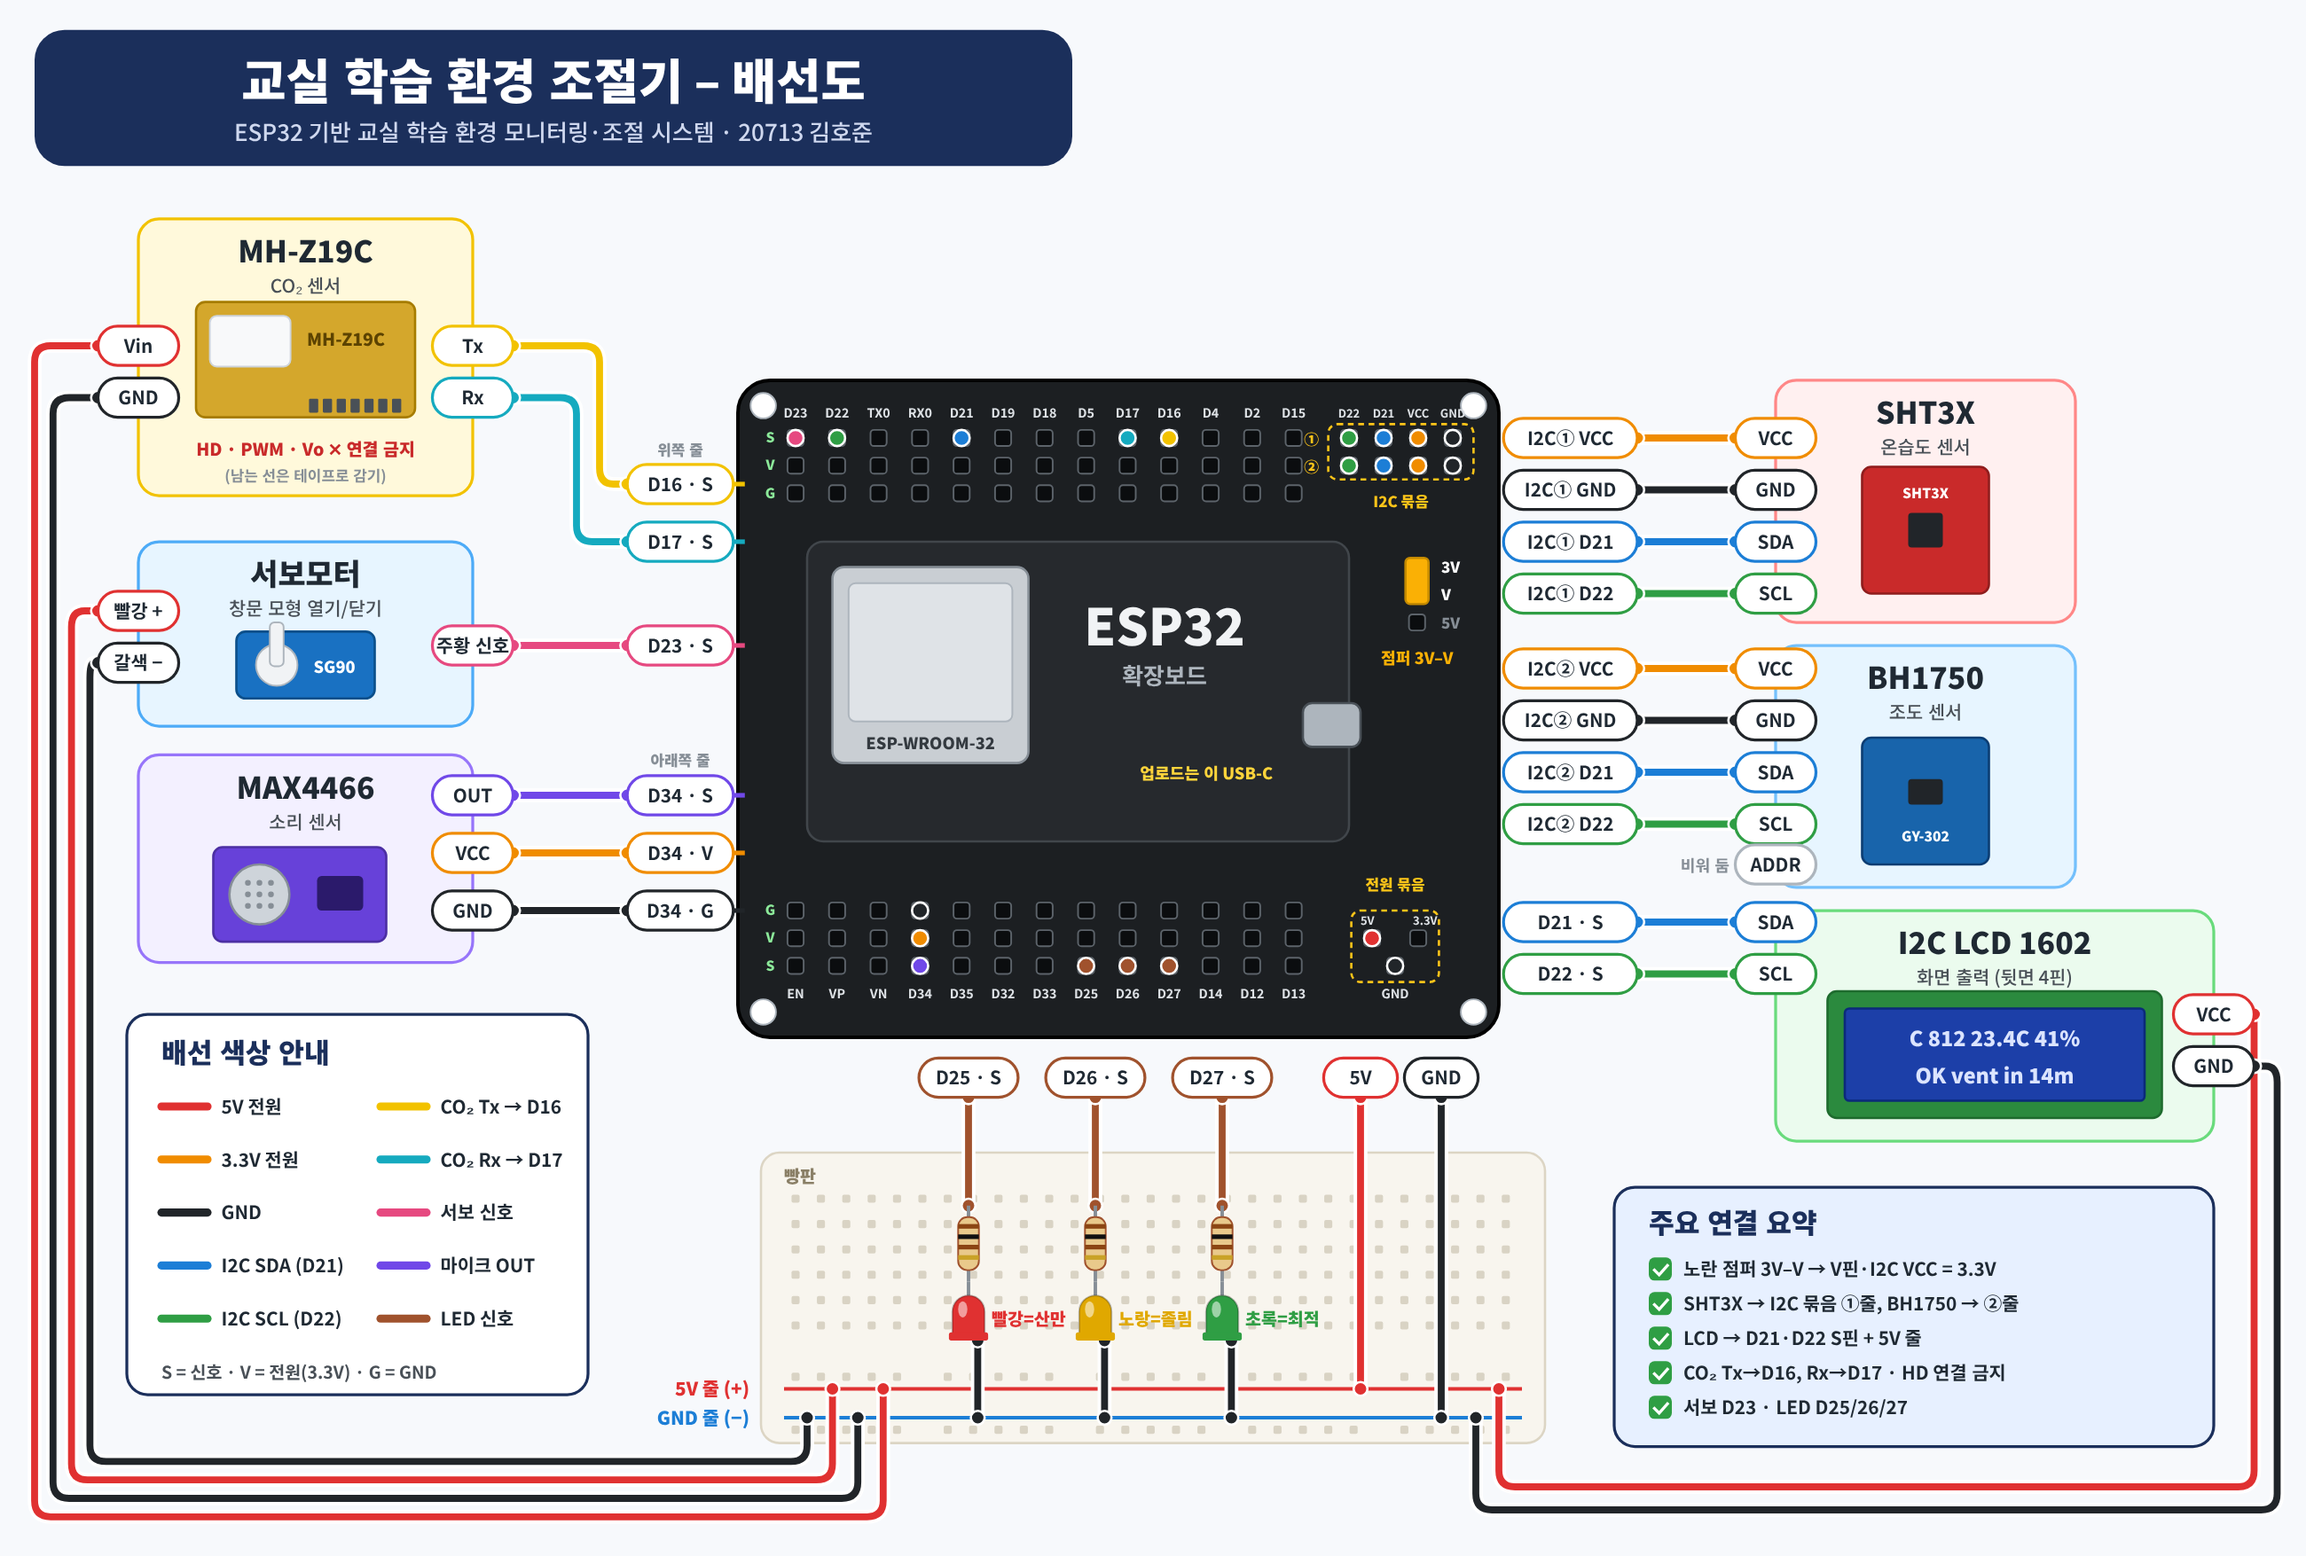
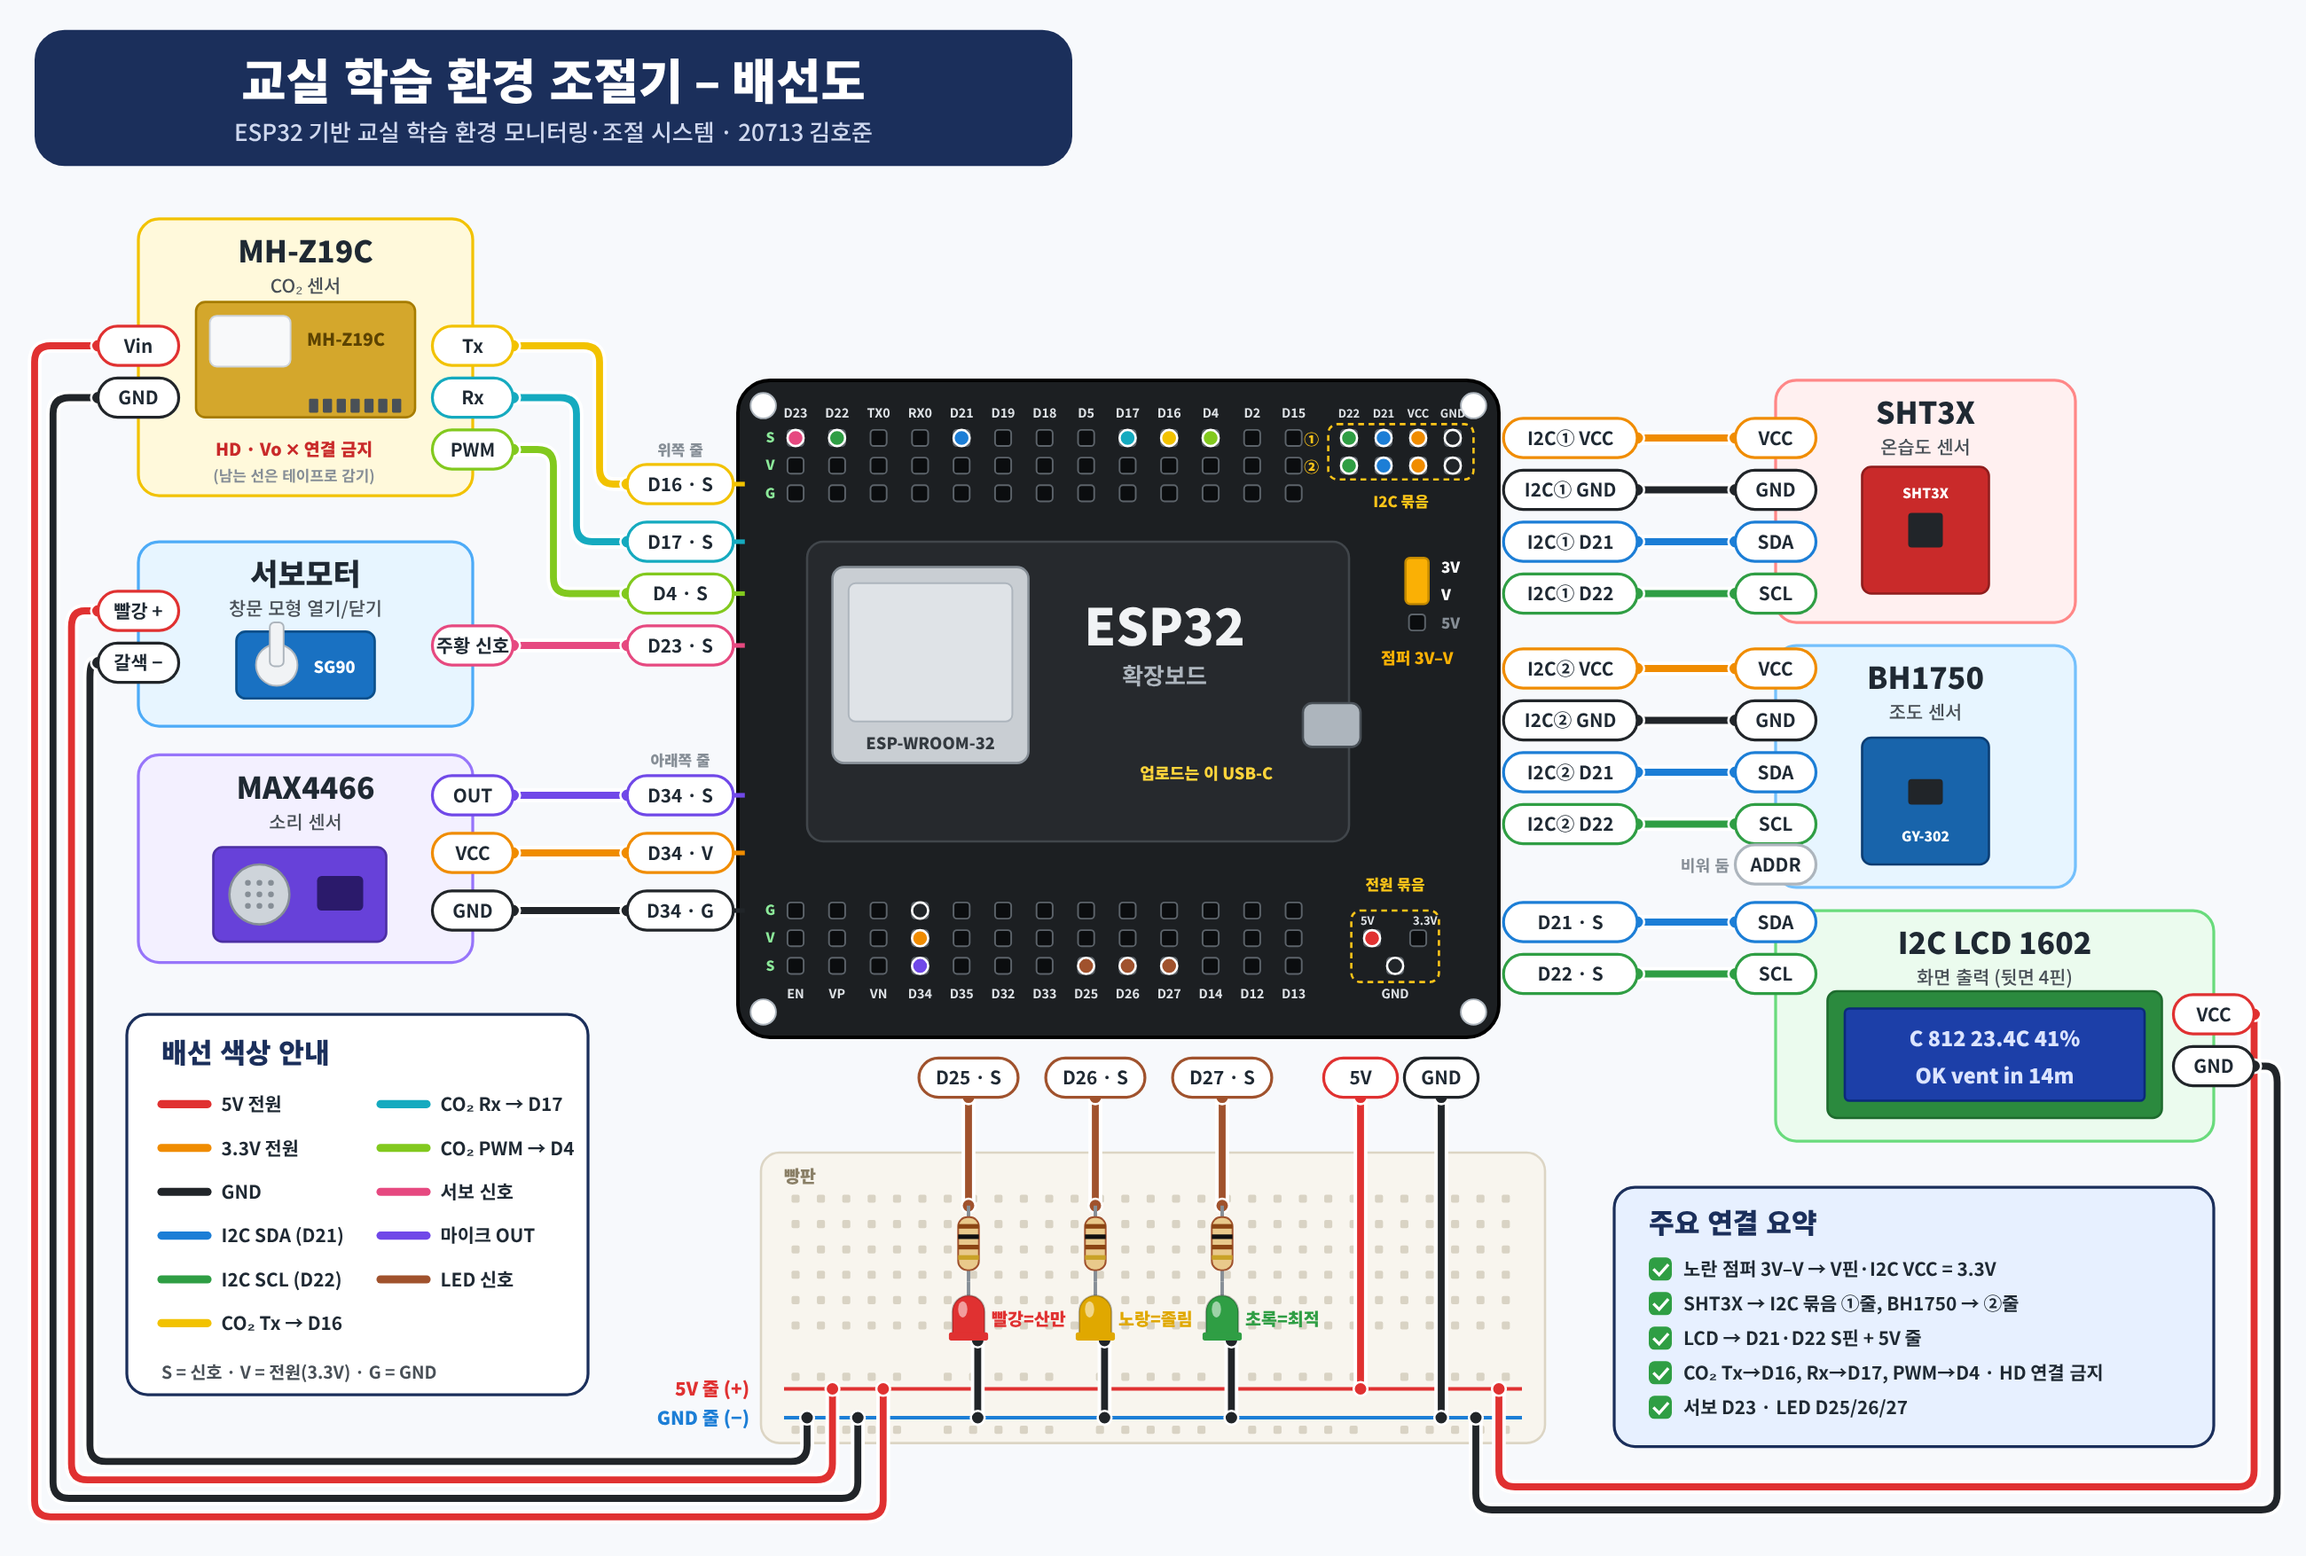
MH-Z19C PWM 출력도 D4로 함께 기록 (UART 값 검증용)
- 인터럽트로 HIGH/LOW 길이를 재서 CO2 = 범위×(Th−2)/(Th+Tl−4)
- 기록 열 co2_pwm 추가, CSV 추출·README·배선도 갱신

Claude-Session: https://claude.ai/code/session_01RUbau35s9DhPUQM7b6cBcN

diff --git a/firmware/classroom_env/config.example.h b/firmware/classroom_env/config.example.h
@@ -25,6 +25,9 @@
 // 내려가지 않을 수 있어서, 켜 두면 기준점이 틀어질 수 있음. 1 = 끄기(권장)
 #define CO2_ABC_OFF 1
 
+// MH-Z19C 측정 범위(ppm). PWM 값이 UART 값과 크게 다르면 2000 또는 5000으로 바꿔 보기
+#define CO2_PWM_RANGE 5000
+
 // 창문 리드 스위치 개수 (0~8). 데이터과학 장치를 합칠 때 사용.
 // 핀 순서: 13, 14, 18, 19, 32, 33, 4, 5  (스위치 한쪽은 핀, 다른 쪽은 GND)
 #define REED_COUNT 0

diff --git a/tools/export_csv.py b/tools/export_csv.py
@@ -17,7 +17,7 @@ import urllib.request
 from datetime import datetime, timedelta, timezone
 
 KST = timezone(timedelta(hours=9))
-LOG_COLS = ["time", "ts", "up", "flag", "co2", "temp", "hum", "lux",
+LOG_COLS = ["time", "ts", "up", "flag", "co2", "co2_pwm", "temp", "hum", "lux",
             "snd_mean", "snd_std", "snd_max", "snd_spikes", "reed", "state", "vent", "win"]
 LABEL_COLS = ["time", "ts", "focus", "drowsy", "sleeping", "note"]
 

diff --git a/README.md b/README.md
@@ -40,7 +40,7 @@
 | BH1750 (조도) | 보드 **I2C 묶음 ②줄**에 바로 (ADDR은 비워 둠) |
 | I2C LCD | SDA → **D21 S**, SCL → **D22 S**, VCC → 빵판 **5V 줄**, GND → 빵판 GND 줄 |
 | MAX4466 (소리) | **D34**의 S(OUT)·V(VCC)·G(GND) |
-| MH-Z19C (CO₂) | Vin → 5V 줄, GND → GND 줄, Tx → **D16 S**, Rx → **D17 S** (HD·PWM·Vo 연결 금지) |
+| MH-Z19C (CO₂) | Vin → 5V 줄, GND → GND 줄, Tx → **D16 S**, Rx → **D17 S**, PWM → **D4 S** (HD·Vo 연결 금지) |
 | 서보모터 | 주황(신호) → **D23 S**, 빨강 → 5V 줄, 갈색 → GND 줄 |
 | 신호등 LED | D25/D26/D27 S → 저항 → LED 긴 다리, 짧은 다리 → GND 줄 |
 | 빵판 레일 | 보드 전원 묶음 **5V → + 줄**, **GND → − 줄** |
@@ -97,7 +97,8 @@
 |---|---|
 | `ts`, `time` | 측정 시각 (유닉스 시간, 한국 시간) |
 | `flag` | `warmup` = CO₂ 예열 중(분석에서 제외), `ok` |
-| `co2` | CO₂ ppm (10초 평균) |
+| `co2` | CO₂ ppm (UART, 10초 평균) — 판단에 사용 |
+| `co2_pwm` | 같은 센서의 PWM 출력으로 계산한 CO₂ — UART 값 검증용 |
 | `temp`, `hum`, `lux` | 온도 ℃, 습도 %, 조도 lx |
 | `snd_mean`, `snd_std`, `snd_max` | 50ms 진폭(ADC)의 평균·표준편차·최댓값 — 크기와 변동성 |
 | `snd_spikes` | 배경보다 2배 이상 튄 소리의 횟수 (말소리·충격음) |
